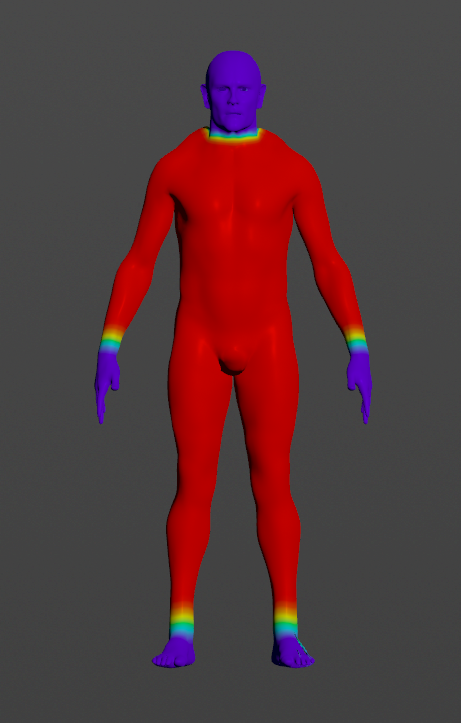
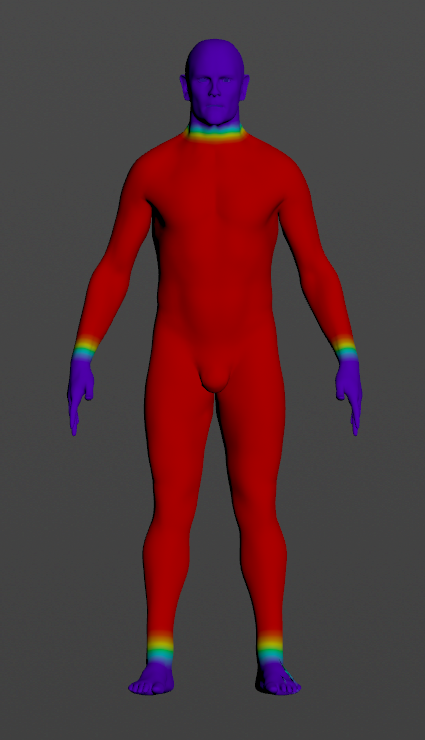
Improved screenshot of the blend map for skin merge page (houdini). Added figures showing the result of skin merge in a simple setup page (houdini and maya). Updated figure numbers in simple setup page for maya.

Changed region(s): [[0.1529, 0.0304, 0.8565, 0.9433]]

diff --git a/docs/maya/simple_setup.md b/docs/maya/simple_setup.md
@@ -504,6 +504,11 @@ To have a smooth transition from the simulated mesh to the animated mesh, smooth
 
 With this basic paint setup the AdnSkinMerge deformer will now show the results of skin simulation transferred to the final mesh.
 
+<figure>
+  <img src="images/simple_setup_skin_merge_03.png">
+  <figcaption><b>Figure 44</b>: Result of AdnSkinMerge in a specific frame. From left to right: Animation Mesh, Simulation Mesh and Final Mesh.</figcaption>
+</figure>
+
 ## AdnSimshape
 
 To create a basic scenario using the AdnSimshape deformer, start with a scene with the following elements:
@@ -516,7 +521,7 @@ All these meshes must have the same number of vertices and correspond to the sam
 
 <figure>
   <img src="images/simple_setup_simshape_00.png"> 
-  <figcaption><b>Figure 44</b>: Basic setup for facial simulations.</figcaption>
+  <figcaption><b>Figure 45</b>: Basic setup for facial simulations.</figcaption>
 </figure>
 
 ### Create Deformer
@@ -529,7 +534,7 @@ To create the AdnSimshape deformer with some initial specialization, double-clic
 
 <figure>
   <img src="images/simple_setup_simshape_01.png"> 
-  <figcaption><b>Figure 45</b>: AdnSimshape deformer creation scenario.</figcaption>
+  <figcaption><b>Figure 46</b>: AdnSimshape deformer creation scenario.</figcaption>
 </figure>
 
 To add the deformation mesh to the deformer first select the deformation mesh, then the simulated mesh (which is the animation mesh) and then go to AdonisFX Menu > Simshape (on the *Edit* group) > Add *Deform Mesh*. A message will notify that the addition of the rest mesh has been done correctly.
@@ -545,21 +550,21 @@ In high deformation areas, such as around the mouth or under the eyes, add mediu
 
 <figure>
   <img src="images/simple_setup_simshape_02.png"> 
-  <figcaption><b>Figure 46</b>: Attraction Force weights for medium dynamics areas.</figcaption>
+  <figcaption><b>Figure 47</b>: Attraction Force weights for medium dynamics areas.</figcaption>
 </figure>
 
 Painting lower Attraction Force weights in meatier areas of the face, such as under the neck or in the cheeks to show more dynamics in these regions. In this case a value of 0.15 will be applied.
 
 <figure>
   <img src="images/simple_setup_simshape_03.png"> 
-  <figcaption><b>Figure 47</b>: Attraction Force weights for high dynamics areas.</figcaption>
+  <figcaption><b>Figure 48</b>: Attraction Force weights for high dynamics areas.</figcaption>
 </figure>
 
 The lowest values (0.1 in this case) will be applied to the area under the jaw where dynamics will appear the most. 
 
 <figure>
   <img src="images/simple_setup_simshape_04.png"> 
-  <figcaption><b>Figure 48</b>: Attraction Force weights for highest dynamics areas.</figcaption>
+  <figcaption><b>Figure 49</b>: Attraction Force weights for highest dynamics areas.</figcaption>
 </figure>
 
 After painting similar weights to the ones displayed and pressing playback to check the animation, realistic dynamics should be simulated in the face. Many more paintable weights to better customize and tweak face dynamics are available and fully explained in the documentation for [AdnSimshape](solvers/simshape).

diff --git a/docs/houdini/simple_setup.md b/docs/houdini/simple_setup.md
@@ -62,4 +62,9 @@ To have a smooth transition from the simulated mesh to the animated mesh, smooth
 
 With this basic paint setup the AdnSkinMerge SOP will now show the results of skin simulation transferred to the final mesh.
 
+<figure>
+  <img src="images/simple_setup_skin_merge_04.png">
+  <figcaption><b>Figure X</b>: Result of AdnSkinMerge in a specific frame. From left to right: Animation Mesh, Simulation Mesh and Final Mesh.</figcaption>
+</figure>
+
 ## AdnSimshape
